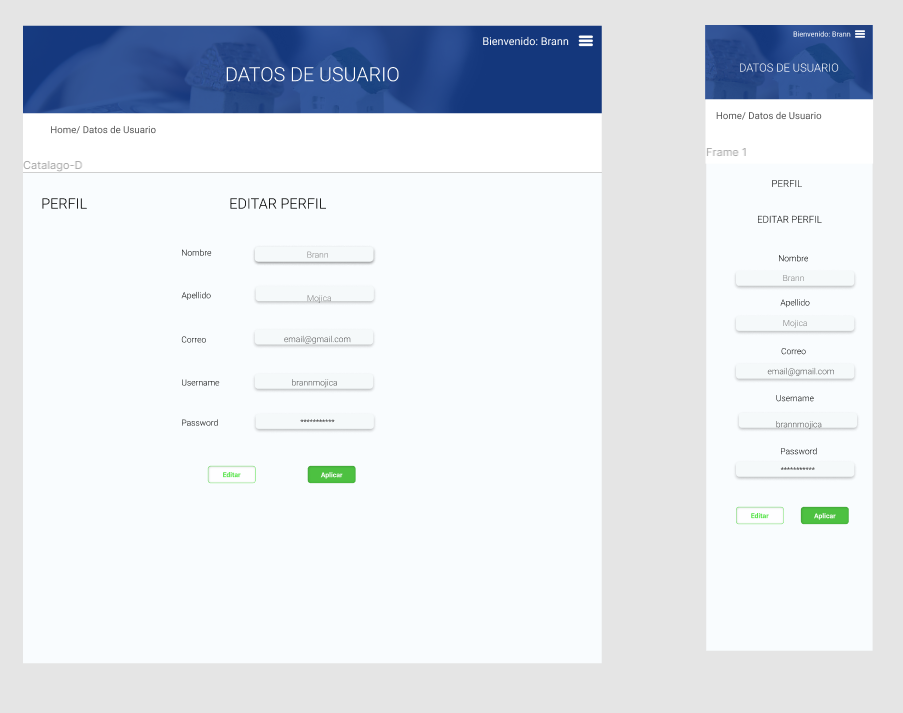
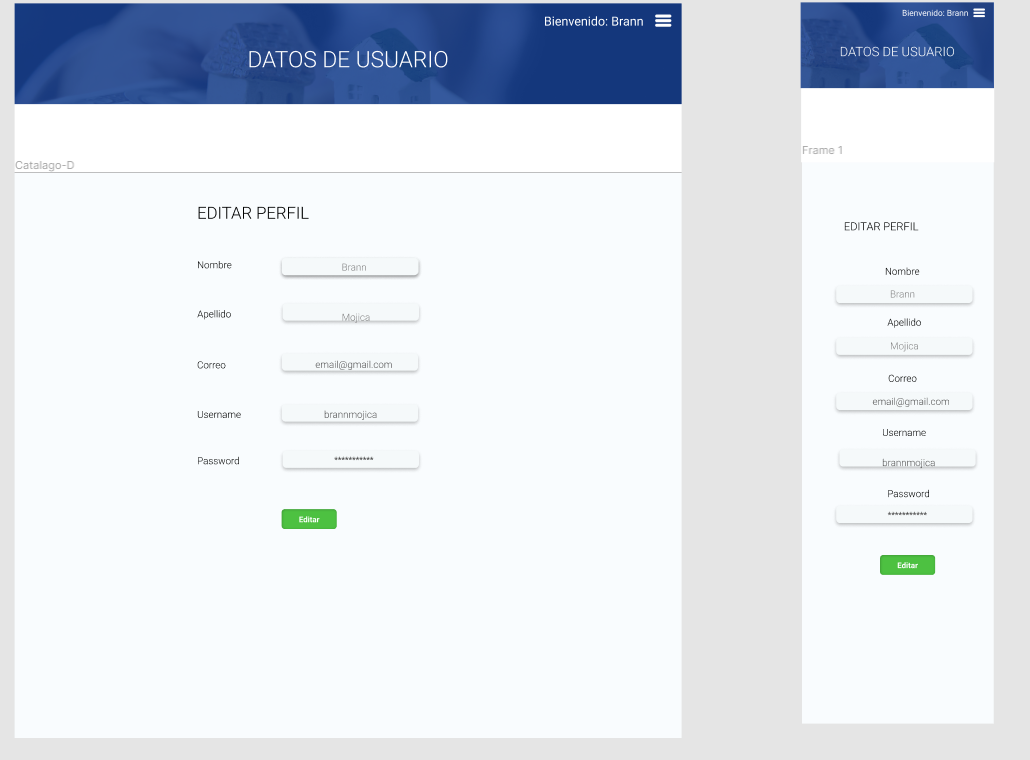
changes on j form and style

diff --git a/system_rentail/src/components/PersonalData.jsx b/system_rentail/src/components/PersonalData.jsx
@@ -1,132 +1,123 @@
-import React,{ Component , useState, useEffect } from "react";
+import React, { Component, useState, useEffect } from "react";
 
 import "../styles/personaldata.sass";
 import { ButtonEdit } from "./Buttons";
 
- class PersonalData extends Component {
+class PersonalData extends Component {
+  constructor(props) {
+    super(props);
+    this.state = {
+      nameP: "",
+      lastnameP: "",
+      emailP: "",
+      usernameP: "",
+      passwordP: "",
+    };
 
-    constructor(props){
-        super(props);
-        this.state = {
-            nameP: '',
-    lastnameP:  '',
-    emailP:  '',
-    usernameP:  '',
-    passwordP:  ''
-        }
-    
-        this.handleInputChange = this.handleInputChange.bind(this);
-      }
-
+    this.handleInputChange = this.handleInputChange.bind(this);
+  }
 
   //  export  function PersonalData(props) {
-//   state = {
-//     nameP: '',
-//     lastnameP:  '',
-//     emailP:  '',
-//     usernameP:  '',
-//     passwordP:  ''
-//   };
+  //   state = {
+  //     nameP: '',
+  //     lastnameP:  '',
+  //     emailP:  '',
+  //     usernameP:  '',
+  //     passwordP:  ''
+  //   };
 
-//   onSubmit = e => { // so we can type
-//       e.preventDefault();
-//       console.log(this.state);
-//   }
+  //   onSubmit = e => { // so we can type
+  //       e.preventDefault();
+  //       console.log(this.state);
+  //   }
 
-//   onChange = e => this.setState ({ [e.target.name] : e.target.value}); // so we get to change the state without doing it 1 by 1 ...
-  
-handleInputChange(e){
+  //   onChange = e => this.setState ({ [e.target.name] : e.target.value}); // so we get to change the state without doing it 1 by 1 ...
+
+  handleInputChange(e) {
     const target = e.target;
     const value = target.value;
     const name = target.name;
 
     this.setState({
-      [name]: value
+      [name]: value,
     });
   }
 
-  
   render() {
-
-    const {nameP,lastnameP, emailP, usernameP, passwordP}= this.state; // kinda like the constructors we used to use on c# 
+    const { nameP, lastnameP, emailP, usernameP, passwordP } = this.state; // kinda like the constructors we used to use on c#
     return (
       <div className="container-p">
-        <div className="form-p"></div>
-         <form onSubmit={this.onSubmit}>
-             <div className="form-gp" >
-                 <label hname="nameP">Nombre</label>
-                <input
-                    type="text"
-                    name="nameP"
-                    className="slabel"
-                    placeholder="Name"
-                    ref="nameP"
-                    value={this.state.nameP}
-                    onChange={this.handleInputChange}
-                    />
-             </div>
-
-             <div className="form-gp" >
-                 <label lname="lastnameP">Apellido</label>
-                <input
-                    type="text"
-                    name="lastnameP"
-                    className="slabel"
-                    placeholder="Apellido"
-                    ref="lastnameP"
-                    value={this.state.lastnameP}
-                    onChange={this.handleInputChange}
-                    />
-             </div>
-
-             <div className="form-gp" >
-                 <label email="emailP">Correo</label>
-                <input
-                    type="email"
-                    name="emailP"
-                    className="slabel"
-                   
-                    placeholder="Correo"
-                    ref="emailP"
-                    value={this.state.emailP}
-                    onChange={this.handleInputChange}
-                    />
-             </div>
-
-             <div className="form-gp" >
-                 <label uname="usernameP">Username</label>
-                <input
-                    type="text"
-                    name="usernameP"
-                    className="slabel"
-                    placeholder="Username"
-                    ref="usernameP"
-                    value={this.state.usernameP}
-                    onChange={this.handleInputChange}
-                    />
-             </div>
-
-             <div className="form-gp" >
-                 <label pword="passwordP">Password</label>
-                <input
-                    type="password"
-                    name="passwordP"
-                    className="slabel"
-                    placeholder="Password"
-                    ref="passwordP"
-                    value={this.state.passwordP}
-                    onChange={this.handleInputChange}
-                    />
-             </div>
-            < ButtonEdit
-                type = "submit"
-                
+         
+        <div className="form-p"><h2>Editar Perfil</h2></div>
+        <form onSubmit={this.onSubmit}>
+          <div className="form-gp">
+            <label hname="nameP">Nombre</label>
+            <input
+              type="text"
+              name="nameP"
+              className="slabel"
+              placeholder="Name"
+              ref="nameP"
+              value={this.state.nameP}
+              onChange={this.handleInputChange}
             />
+          </div>
 
-            
-         </form>
+          <div className="form-gp">
+            <label lname="lastnameP">Apellido</label>
+            <input
+              type="text"
+              name="lastnameP"
+              className="slabel"
+              placeholder="Apellido"
+              ref="lastnameP"
+              value={this.state.lastnameP}
+              onChange={this.handleInputChange}
+            />
+          </div>
+
+          <div className="form-gp">
+            <label email="emailP">Correo</label>
+            <input
+              type="email"
+              name="emailP"
+              className="slabel"
+              placeholder="Correo"
+              ref="emailP"
+              value={this.state.emailP}
+              onChange={this.handleInputChange}
+            />
+          </div>
+
+          <div className="form-gp">
+            <label uname="usernameP">Username</label>
+            <input
+              type="text"
+              name="usernameP"
+              className="slabel"
+              placeholder="Username"
+              ref="usernameP"
+              value={this.state.usernameP}
+              onChange={this.handleInputChange}
+            />
+          </div>
+
+          <div className="form-gp">
+            <label pword="passwordP">Password</label>
+            <input
+              type="password"
+              name="passwordP"
+              className="slabel"
+              placeholder="Password"
+              ref="passwordP"
+              value={this.state.passwordP}
+              onChange={this.handleInputChange}
+            />
+          </div>
+          <ButtonEdit type="submit" />
+        </form>
       </div>
     );
   }
 }
-export default PersonalData;  // because its a class
+export default PersonalData; // because its a class

diff --git a/system_rentail/src/styles/buttons.sass b/system_rentail/src/styles/buttons.sass
@@ -65,6 +65,23 @@
         background-color: #4DC141
         transition: all 500ms
 
+.btn-edit-desktop
+    width: 150px
+    height: 30px
+    border: 1px solid #4DC141
+    border-radius: 8px
+    background-color: #4DC141
+    color: #fff
+    font-size: 17px
+    font-weight: bold
+    cursor: pointer
+    transition: all 500ms
+
+    &:hover
+        background-color: #153E90
+        color: #fff
+        transition: all 500ms        
+
 @media (min-width: $small)
     .btn-rent-desktop
         width: 90%

diff --git a/system_rentail/src/styles/personaldata.sass b/system_rentail/src/styles/personaldata.sass
@@ -1,0 +1,34 @@
+@import './variables.sass'
+
+ 
+.container-p
+    position: relative
+    height: 124px
+    width: 340px
+    margin: 0 auto
+     
+
+.h2
+    position: absolute
+    height: 16px
+    width: 340px
+    
+    text-align: center
+    font-weight: bold
+    
+
+.form-p
+    width: 100%
+     
+    padding: 3%
+
+.form-gp
+    width: 100%
+  
+    padding: 3%
+
+.slabel
+    width: 100%
+     
+    padding: 3%    
+

diff --git a/system_rentail/src/components/App.jsx b/system_rentail/src/components/App.jsx
@@ -7,7 +7,7 @@ import  PersonalData  from './PersonalData';
 function App() {
   return (
     <div className="App">
-      {/* <Header /> */}
+      <Header />
        {/* <Catalog /> */}
       <PersonalData/>
     </div>
